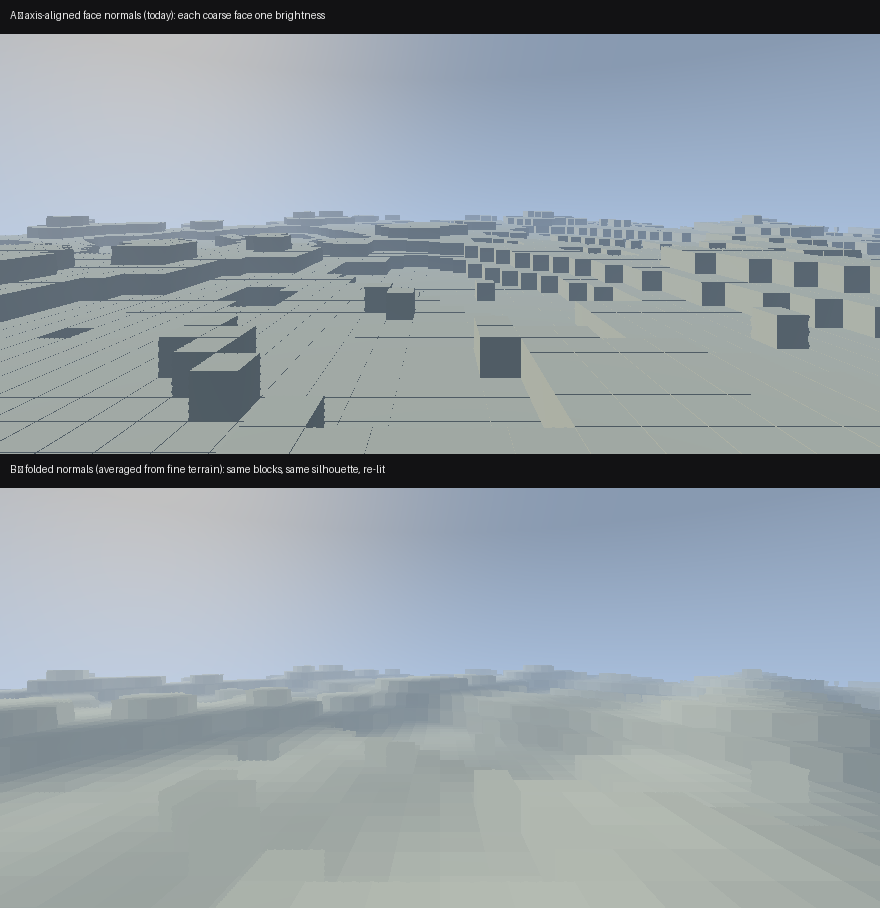
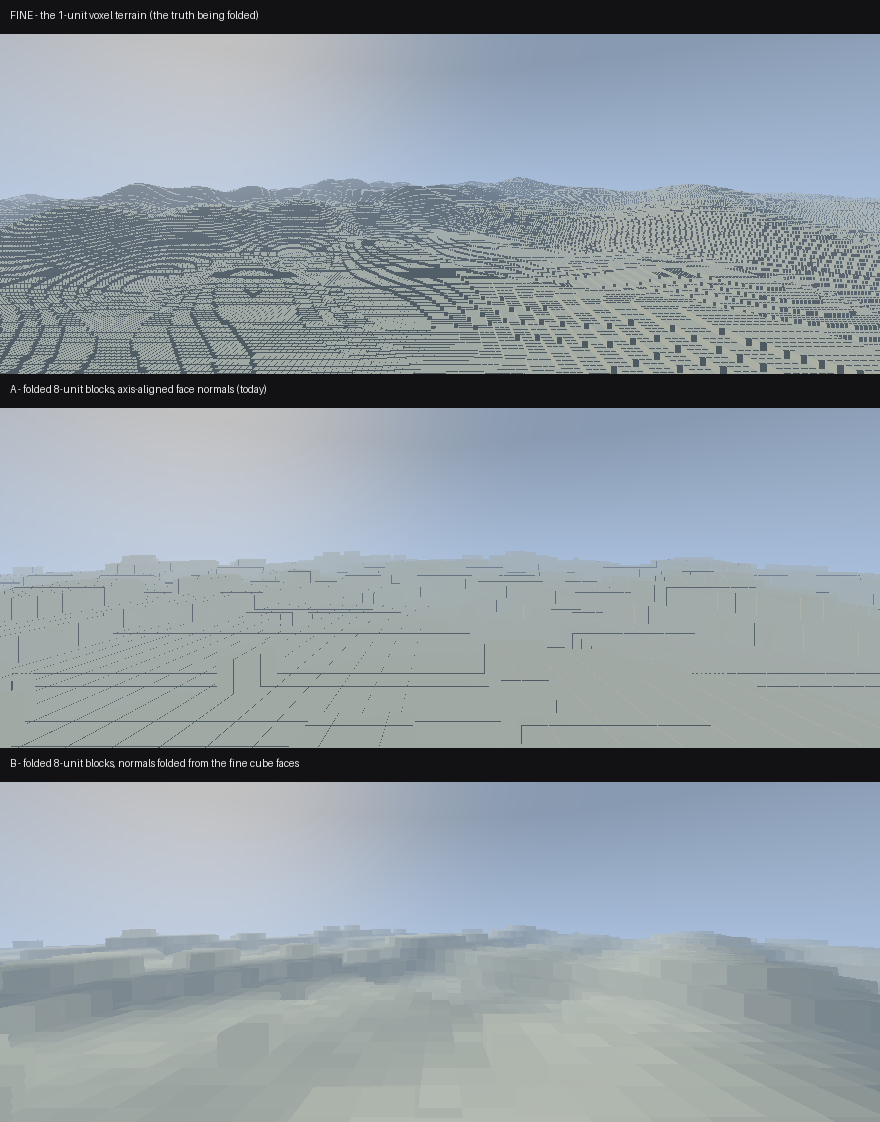
util: fold demo v2 — real fine voxel grid, honest fold, three panels
FINE truth panel + coarse fold (occupancy = quantized column mean,
normals = area-weighted sum of actual exposed fine faces). Replaces
the analytic-gradient stand-in.

diff --git a/util/claude/fold_normals_ab.py b/util/claude/fold_normals_ab.py
@@ -1,138 +1,152 @@
 #!/usr/bin/env python3
-"""A/B mockup: axis-aligned face normals vs folded (averaged) normals
-on coarse-block terrain, same geometry, same silhouette, same light.
+"""Fold demo, three panels from ONE fine voxel set:
 
-This is NOT the renderer — it's an offline illustration of the shading
-phenomenon the `claude_far_normals` dial will control, so the taste call
-can be previewed before the far irradiance cache exists.
+  FINE — the 1-unit voxel terrain (the truth being folded)
+  A    — folded 8-unit blocks, axis-aligned face normals (today's shading)
+  B    — folded 8-unit blocks, normals folded from the fine faces
+
+The fold is real: coarse occupancy = quantized mean of the fine columns in
+each 8x8 footprint; the folded normal = area-weighted average of the fine
+terrain's actual exposed cube faces (tops contribute +y, side walls
+contribute +/-x,+/-z proportional to their area). No analytic gradients —
+everything downstream of HF comes from the fine voxel grid.
+
+This is NOT the renderer — it's an offline preview of the
+`claude_far_normals` dial and a worked example of the FOLDING.md contract.
 
 Run:  ~/.venvs/voice/bin/python util/claude/fold_normals_ab.py
-Out:  util/claude/fold_normals_ab.png  (A over B, labeled)
+Out:  util/claude/fold_normals_ab.png
 """
 
 import numpy as np
 from PIL import Image, ImageDraw
 
-W, H = 880, 420          # per panel
-BLOCK = 8.0              # coarse cell size in world units ("16 m rung")
+W, H = 880, 340          # per panel
+BF, BC = 1.0, 8.0        # fine and coarse cell size
 FOV = 55.0
 
-# ---- smooth "true" terrain the blocks quantize (stand-in for fine voxels)
-def smooth_h(x, z):
+# ---------------------------------------------------------------- fine set
+# A rolling-hills height function, immediately quantized into 1-unit
+# voxel columns. HF is the ONLY geometry source below this block.
+def rolling(x, z):
     return (10.0 * np.sin(x * 0.021 + 1.7) * np.cos(z * 0.017)
             + 6.0 * np.sin(x * 0.043 - 0.6) * np.sin(z * 0.031 + 0.4)
             + 3.0 * np.sin(x * 0.09 + z * 0.07)
-            + 0.012 * z)  # gentle rise toward the horizon
+            + 0.012 * z)
 
-def blocky_h(x, z):
-    """Coarse-cell terrain: sample smooth field at cell centers, quantize
-    height to whole blocks. This is what 'fold occupancy' produces."""
-    cx = (np.floor(x / BLOCK) + 0.5) * BLOCK
-    cz = (np.floor(z / BLOCK) + 0.5) * BLOCK
-    return np.round(smooth_h(cx, cz) / BLOCK) * BLOCK
+X0, Z0 = -620.0, -60.0
+NX, NZ = 1240, 1520                      # fine grid, 1 unit
+fx = X0 + np.arange(NX) + 0.5
+fz = Z0 + np.arange(NZ) + 0.5
+HF = np.round(rolling(fx[:, None], fz[None, :]))     # 1-unit voxel columns
 
-def folded_normal(x, z):
-    """Mode B: the fold's averaged normal = gradient of the underlying
-    fine terrain, sampled per coarse cell (constant within a cell, like
-    a real folded channel would be)."""
-    cx = (np.floor(x / BLOCK) + 0.5) * BLOCK
-    cz = (np.floor(z / BLOCK) + 0.5) * BLOCK
-    e = 2.0
-    dhdx = (smooth_h(cx + e, cz) - smooth_h(cx - e, cz)) / (2 * e)
-    dhdz = (smooth_h(cx, cz + e) - smooth_h(cx, cz - e)) / (2 * e)
-    n = np.stack([-dhdx, np.ones_like(dhdx), -dhdz], axis=-1)
-    return n / np.linalg.norm(n, axis=-1, keepdims=True)
+# ------------------------------------------------------------- the FOLD
+NXC, NZC = NX // 8, NZ // 8
+blocks = HF.reshape(NXC, 8, NZC, 8)
+# occupancy fold: mean fine height per 8x8 footprint, quantized to blocks
+HC = np.round(blocks.mean(axis=(1, 3)) / BC) * BC
+# normal fold: area-weighted sum of the fine terrain's exposed faces.
+# Each column top: area 1, normal +y. Each wall between neighbour columns:
+# area |dh|, normal points from the taller column toward the shorter one,
+# i.e. the signed sum along x is -sum(dh_x) (telescopes to the cell's mean
+# slope — the average of real cube faces, not an analytic gradient).
+dhx = np.zeros_like(HF); dhx[:-1, :] = HF[1:, :] - HF[:-1, :]
+dhz = np.zeros_like(HF); dhz[:, :-1] = HF[:, 1:] - HF[:, :-1]
+nxc = -dhx.reshape(NXC, 8, NZC, 8).sum(axis=(1, 3))
+nzc = -dhz.reshape(NXC, 8, NZC, 8).sum(axis=(1, 3))
+nyc = np.full_like(nxc, 64.0)                        # 64 tops of area 1
+NC = np.stack([nxc, nyc, nzc], axis=-1)
+NC /= np.linalg.norm(NC, axis=-1, keepdims=True)
 
-# ---- camera
-ro = np.array([0.0, smooth_h(0, 0) + 26.0, 0.0])
-pitch = -0.10
-aspect = W / H
+def h_fine(x, z):
+    ix = np.clip(np.floor(x - X0).astype(int), 0, NX - 1)
+    iz = np.clip(np.floor(z - Z0).astype(int), 0, NZ - 1)
+    return HF[ix, iz]
+
+def h_coarse(x, z):
+    ix = np.clip((np.floor(x - X0) // 8).astype(int), 0, NXC - 1)
+    iz = np.clip((np.floor(z - Z0) // 8).astype(int), 0, NZC - 1)
+    return HC[ix, iz]
+
+def n_folded(x, z):
+    ix = np.clip((np.floor(x - X0) // 8).astype(int), 0, NXC - 1)
+    iz = np.clip((np.floor(z - Z0) // 8).astype(int), 0, NZC - 1)
+    return NC[ix, iz]
+
+# ---------------------------------------------------------------- camera
+ro = np.array([0.0, rolling(0, 0) + 26.0, 0.0])
 ys, xs = np.mgrid[0:H, 0:W]
 u = (xs + 0.5) / W * 2 - 1
 v = 1 - (ys + 0.5) / H * 2
 t_half = np.tan(np.radians(FOV / 2))
-rd = np.stack([u * t_half * aspect,
-               v * t_half + pitch,
+rd = np.stack([u * t_half * (W / H), v * t_half - 0.10,
                np.ones_like(u)], axis=-1)
 rd /= np.linalg.norm(rd, axis=-1, keepdims=True)
 rd = rd.reshape(-1, 3)
 N = rd.shape[0]
 
-# ---- march the blocky field (shared by both panels)
-t = np.full(N, 4.0)
-hit_t = np.zeros(N)
-alive = np.ones(N, bool)
-for i in range(560):
-    p = ro + rd * t[:, None]
-    below = p[:, 1] < blocky_h(p[:, 0], p[:, 2])
-    newly = alive & below
-    hit_t[newly] = t[newly]
-    alive &= ~below
-    if not alive.any():
-        break
-    dt = np.maximum(0.35, t * 0.006)          # step grows with distance
-    t = np.where(alive, t + dt, t)
+def march(hfunc, cell):
+    t = np.full(N, 4.0); hit_t = np.zeros(N); alive = np.ones(N, bool)
+    for i in range(560):
+        p = ro + rd * t[:, None]
+        below = p[:, 1] < hfunc(p[:, 0], p[:, 2])
+        hit_t[alive & below] = t[alive & below]
+        alive &= ~below
+        if not alive.any():
+            break
+        t = np.where(alive, t + np.maximum(0.35, t * 0.006), t)
+    hit = hit_t > 0
+    lo = np.maximum(hit_t - np.maximum(0.35, hit_t * 0.006), 0.0)
+    hi = hit_t.copy()
+    for i in range(14):
+        mid = 0.5 * (lo + hi)
+        p = ro + rd * mid[:, None]
+        below = p[:, 1] < hfunc(p[:, 0], p[:, 2])
+        hi = np.where(below & hit, mid, hi)
+        lo = np.where(~below & hit, mid, lo)
+    ph = ro + rd * hi[:, None]
+    pb = ro + rd * (hi - 0.30)[:, None]
+    nz_ = np.zeros((N, 3))                       # face normal classification
+    cxh, czh = np.floor(ph[:, 0] / cell), np.floor(ph[:, 2] / cell)
+    cxb, czb = np.floor(pb[:, 0] / cell), np.floor(pb[:, 2] / cell)
+    sx = cxh != cxb; sz = (czh != czb) & ~sx; top = ~sx & ~sz
+    nz_[top] = [0, 1, 0]
+    nz_[sx, 0] = -np.sign(rd[sx, 0]); nz_[sz, 2] = -np.sign(rd[sz, 2])
+    return hit, hi, ph, nz_
 
-hit = hit_t > 0
-# refine by bisection
-lo = np.maximum(hit_t - np.maximum(0.35, hit_t * 0.006), 0.0)
-hi = hit_t.copy()
-for i in range(14):
-    mid = 0.5 * (lo + hi)
-    p = ro + rd * mid[:, None]
-    below = p[:, 1] < blocky_h(p[:, 0], p[:, 2])
-    hi = np.where(below & hit, mid, hi)
-    lo = np.where(~below & hit, mid, lo)
-hit_t = hi
-ph = ro + rd * hit_t[:, None]
-
-# ---- face classification for mode A (top vs side, which axis)
-pb = ro + rd * (hit_t - 0.30)[:, None]        # a nudge before the hit
-cxh, czh = np.floor(ph[:, 0] / BLOCK), np.floor(ph[:, 2] / BLOCK)
-cxb, czb = np.floor(pb[:, 0] / BLOCK), np.floor(pb[:, 2] / BLOCK)
-nA = np.zeros((N, 3))
-side_x = (cxh != cxb)
-side_z = (czh != czb) & ~side_x
-top = ~side_x & ~side_z
-nA[top] = [0.0, 1.0, 0.0]
-nA[side_x, 0] = -np.sign(rd[side_x, 0])
-nA[side_z, 2] = -np.sign(rd[side_z, 2])
-
-# ---- mode B normal
-nB = folded_normal(ph[:, 0], ph[:, 2])
-
-# ---- shading (identical everywhere except the normal)
+# ---------------------------------------------------------------- shading
 sun = np.array([-0.55, 0.38, 0.74]); sun /= np.linalg.norm(sun)
 SUN_COL = np.array([1.00, 0.93, 0.80]) * 1.25
 SKY_COL = np.array([0.42, 0.55, 0.75])
 ALBEDO = np.array([0.52, 0.55, 0.48])
 
-def shade(n):
-    lam = np.clip((n @ sun), 0, 1)[:, None]
+def shade(hit, hit_t, n):
+    lam = np.clip(n @ sun, 0, 1)[:, None]
     amb = (0.30 + 0.22 * np.clip(n[:, 1], 0, 1))[:, None]
     col = ALBEDO * (SUN_COL * lam + SKY_COL * amb)
-    # sky + distance fog
     horizon = np.clip(rd[:, 1] * 2.2 + 0.35, 0, 1)[:, None]
     sky = SKY_COL * (1.05 - 0.45 * horizon) + np.array([0.30, 0.22, 0.10]) * \
-        np.clip((rd @ sun), 0, 1)[:, None] ** 8
+        np.clip(rd @ sun, 0, 1)[:, None] ** 8
     fog = np.clip(hit_t / 950.0, 0, 1)[:, None] ** 1.4
     col = col * (1 - fog) + sky * fog
     col = np.where(hit[:, None], col, sky)
-    return (np.clip(col, 0, 1) ** (1 / 2.2) * 255).astype(np.uint8)
+    return (np.clip(col, 0, 1) ** (1 / 2.2) * 255).astype(np.uint8).reshape(H, W, 3)
 
-imgA = shade(nA).reshape(H, W, 3)
-imgB = shade(nB).reshape(H, W, 3)
+hitF, tF, pF, nF = march(h_fine, BF)
+hitC, tC, pC, nC_face = march(h_coarse, BC)
+imgF = shade(hitF, tF, nF)
+imgA = shade(hitC, tC, nC_face)
+imgB = shade(hitC, tC, n_folded(pC[:, 0], pC[:, 2]))
 
-# ---- compose, label, save
 PAD = 34
-out = Image.new("RGB", (W, H * 2 + PAD * 2), (18, 18, 20))
-out.paste(Image.fromarray(imgA), (0, PAD))
-out.paste(Image.fromarray(imgB), (0, H + PAD * 2))
+out = Image.new("RGB", (W, H * 3 + PAD * 3), (18, 18, 20))
 d = ImageDraw.Draw(out)
-d.text((10, 9), "A — axis-aligned face normals (today): each coarse face one brightness",
-       fill=(235, 235, 235))
-d.text((10, H + PAD + 9), "B — folded normals (averaged from fine terrain): same blocks, same silhouette, re-lit",
-       fill=(235, 235, 235))
+for i, (img, label) in enumerate([
+        (imgF, "FINE - the 1-unit voxel terrain (the truth being folded)"),
+        (imgA, "A - folded 8-unit blocks, axis-aligned face normals (today)"),
+        (imgB, "B - folded 8-unit blocks, normals folded from the fine cube faces")]):
+    out.paste(Image.fromarray(img), (0, PAD * (i + 1) + H * i))
+    d.text((10, PAD * i + H * i + 9), label, fill=(235, 235, 235))
 path = __file__.replace(".py", ".png")
 out.save(path)
 print("wrote", path)

diff --git a/util/claude/FOLDING.md b/util/claude/FOLDING.md
@@ -76,10 +76,13 @@ channel by channel. Every fold MUST be:
 
 ## Instruments
 
-- `fold_normals_ab.py` → `fold_normals_ab.png`: offline A/B of the normals
-  channel — same blocky terrain, axis-aligned vs folded shading. Knobs at
-  the top (BLOCK, sun, pitch). Runs with `~/.venvs/voice/bin/python` (any
-  python with numpy+PIL).
+- `fold_normals_ab.py` → `fold_normals_ab.png`: three panels from ONE real
+  1-unit voxel grid — FINE (the truth), A (folded 8-unit blocks, face
+  normals), B (same fold, normals = area-weighted average of the fine
+  terrain's actual exposed cube faces). The fold is genuine: coarse
+  occupancy from the mean of fine columns, folded normal from summed face
+  areas — a worked example of this file's per-channel rules. Runs with
+  `~/.venvs/voice/bin/python` (any python with numpy+PIL).
 - TODO golden fold tests: hand-build a tiny scene (known slab/layer/plant
   mix), fold it, assert coverage and albedo sums analytically. Cheap, and
   would have caught the snow-layer bug before it reached the screen.
